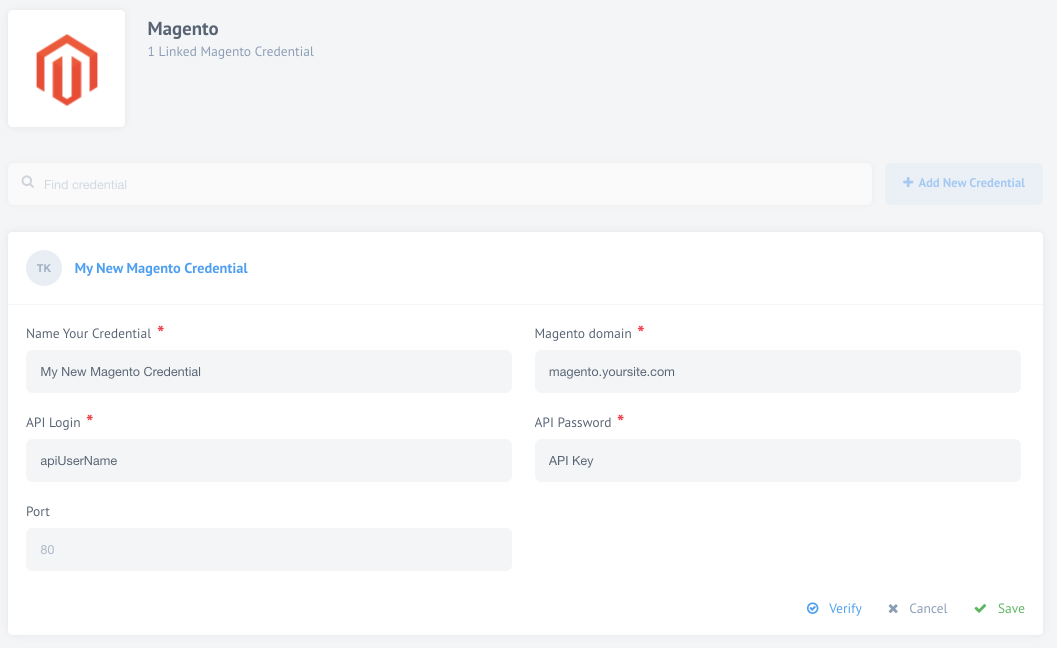
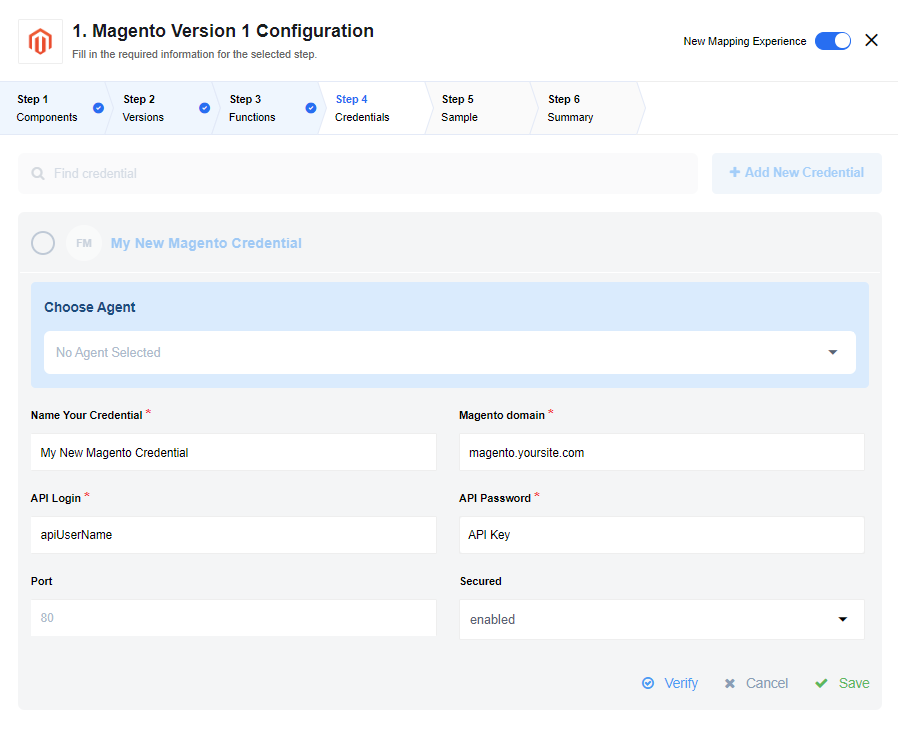
Magento1 update

diff --git a/content/_components/magento1/index.md b/content/_components/magento1/index.md
@@ -7,8 +7,16 @@ icon: magento.png
 icontext: Magento1 component
 category: magento1
 createdDate: 2015-07-29
-updatedDate: 2018-06-25
+updatedDate: 2020-03-03
 ---
+
+## Latest changelog
+
+**1.3.1 (March 3, 2020)**
+
+* Add configuration for Secured connection in credentials
+
+> To see the full **changelog** please use the following [link](/components/magento1/changelog).
 
 ## Description
 
@@ -44,6 +52,8 @@ the new Magento account.
 *   **API Login** (required) - Your Magento API Login. **This is NOT your admin or username that you use to login into your Magento installation.** This is a separate API login that you have to create (read further for more).
 *   **API Password** (required) - Your Magento API login password. Again **this is NOT your admin or user password that you use to login into the Magento installation**. This API password is created separately along with the API login name (read further for more).
 *   **Port** - Automatically set to `80`.
+*   **Secured** - configuration for Secured connection in credentials. Can be `enabled` and
+`disabled`.
 
 To set your API login and API password follow instructions presented in a
 [dedicated page](set-api-login-password).

diff --git a/content/_components/magento1/changelog.md b/content/_components/magento1/changelog.md
@@ -1,0 +1,30 @@
+---
+title: Changelog
+layout: component
+description: Changelog for Magento 1 component.
+icon: magento.png
+icontext: Magento1 component
+category: magento1
+createdDate: 2020-03-04
+updatedDate: 2020-03-04
+---
+
+## 1.3.1 (March 3, 2020)
+
+* Add configuration for Secured connection in credentials
+
+## 1.3.0 (November 6, 2019)
+
+* Update sailor version to 2.2.1
+
+## 1.2.0 (January 7, 2016)
+
+* Update sailor version to 1.1.0
+
+## 1.1.0 (November 26, 2015)
+
+* Update sailor version to 1.0.3
+
+## 1.0.0 (July 29, 2015)
+
+* Initial release

diff --git a/content/_components/docusign/changelog.md b/content/_components/docusign/changelog.md
@@ -1,7 +1,6 @@
 ---
 title: Changelog
 layout: component
-section: Office components
 description: Changelog for Docusign component.
 icon: docusign.png
 icontext: Docusign component

diff --git a/content/_components/router/changelog.md b/content/_components/router/changelog.md
@@ -1,7 +1,6 @@
 ---
 title: Changelog
 layout: component
-section: Utility components
 description: Changelog for Router component.
 icon: router.png
 icontext: Router component
